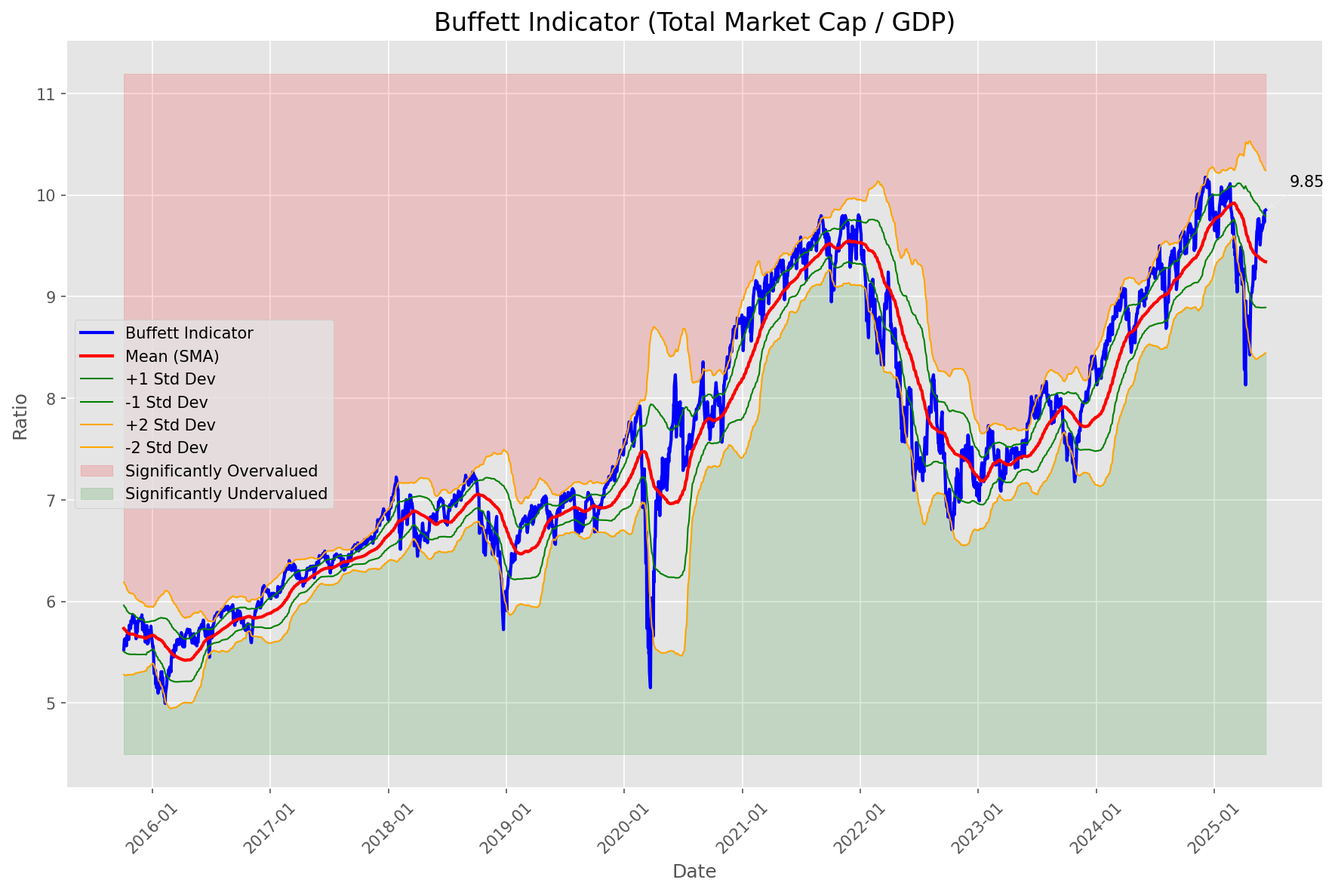
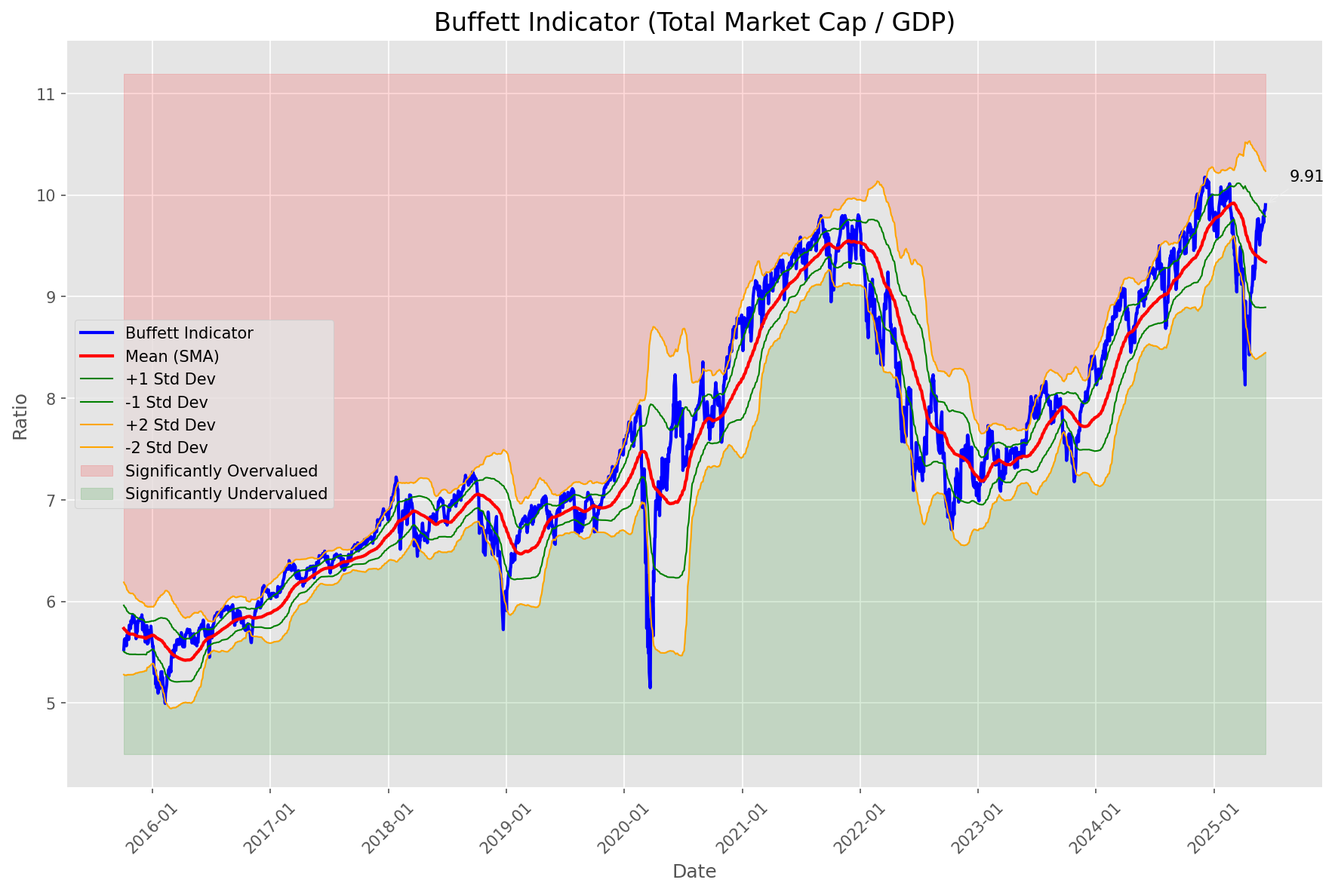
Add market report for 2025-06-11

Changed region(s): [[0.2798, 0.1826, 0.9638, 0.6695], [0.9638, 0.1826, 0.9949, 0.213], [0.8084, 0.9129, 0.8395, 0.9434]]

diff --git a/oneil_relative_strength_report_2025-06-11.md b/oneil_relative_strength_report_2025-06-11.md
@@ -9,11 +9,11 @@
 | Metric | Value |
 |--------|-------|
 | **Market Valuation** | **Overvalued** |
-| **Current Ratio** | 9.91 |
+| **Current Ratio** | 9.93 |
 | **Historical Mean** | 9.34 |
 | **Standard Deviation** | 0.45 |
-| **Z-Score (StdDev from Mean)** | 1.13 |
-| **Total Market Cap** | $296.92 trillion |
+| **Z-Score (StdDev from Mean)** | 1.26 |
+| **Total Market Cap** | $297.65 trillion |
 | **GDP** | $29.98 trillion |
 
 ## **Market Insights**
@@ -51,39 +51,39 @@ Based on William O'Neil's Relative Strength Methodology
 |-----|----------|-----------|-------------|--------------|-------|--------|
 | [ARKW](https://www.tradingview.com/chart/?symbol=ARKW) | 98.5 | 97.0 | 43.41% | 10d ✓, 50d ✓, 200d ✓ | ↗ | Next Generation Internet |
 | [ARKF](https://www.tradingview.com/chart/?symbol=ARKF) | 97.0 | 94.0 | 32.64% | 10d ✓, 50d ✓, 200d ✓ | ↗ | Fintech Innovation |
-| [ARKK](https://www.tradingview.com/chart/?symbol=ARKK) | 96.5 | 93.0 | 30.61% | 10d ✓, 50d ✓, 200d ✓ | ↗ | Innovation |
+| [ARKK](https://www.tradingview.com/chart/?symbol=ARKK) | 96.5 | 93.0 | 28.32% | 10d ✓, 50d ✓, 200d ✓ | ↗ | Innovation |
 | [BLOK](https://www.tradingview.com/chart/?symbol=BLOK) | 96.0 | 92.0 | 26.63% | 10d ✓, 50d ✓, 200d ✓ | ↗ | Blockchain & Cryptocurrency |
 | [AIQ](https://www.tradingview.com/chart/?symbol=AIQ) | 89.5 | 79.0 | 14.22% | 10d ✓, 50d ✓, 200d ✓ | ↗ | Artificial Intelligence & Technology |
-| [CIBR](https://www.tradingview.com/chart/?symbol=CIBR) | 88.5 | 77.0 | 13.67% | 10d ✓, 50d ✓, 200d ✓ | ↗ | Cybersecurity |
-| [PAVE](https://www.tradingview.com/chart/?symbol=PAVE) | 87.5 | 75.0 | 12.82% | 10d ✓, 50d ✓, 200d ✓ | ↗ | Infrastructure |
-| [SLV](https://www.tradingview.com/chart/?symbol=SLV) | 86.0 | 72.0 | 10.91% | 10d ✓, 50d ✓, 200d ✓ | ↗ | Silver |
-| [XLI](https://www.tradingview.com/chart/?symbol=XLI) | 85.5 | 71.0 | 10.80% | 10d ✓, 50d ✓, 200d ✓ | ↗ | Industrial |
-| [XLY](https://www.tradingview.com/chart/?symbol=XLY) | 85.0 | 70.0 | 10.20% | 10d ✓, 50d ✓, 200d ✓ | ↗ | Consumer Discretionary |
-| [JETS](https://www.tradingview.com/chart/?symbol=JETS) | 82.5 | 65.0 | 8.62% | 10d ✓, 50d ✓, 200d ✓ | ↗ | Airlines |
-| [XLC](https://www.tradingview.com/chart/?symbol=XLC) | 82.5 | 65.0 | 8.69% | 10d ✓, 50d ✓, 200d ✓ | ↗ | Communications |
-| [XLF](https://www.tradingview.com/chart/?symbol=XLF) | 80.5 | 61.0 | 7.25% | 10d ✓, 50d ✓, 200d ✓ | ↗ | Financial |
-| [IYZ](https://www.tradingview.com/chart/?symbol=IYZ) | 80.0 | 60.0 | 7.06% | 10d ✓, 50d ✓, 200d ✓ | ↗ | Telecommunications |
-| [GLD](https://www.tradingview.com/chart/?symbol=GLD) | 79.1 | 78.0 | 13.95% | 10d ✗, 50d ✓, 200d ✓ | ↗ | Gold |
-| [URA](https://www.tradingview.com/chart/?symbol=URA) | 78.5 | 97.0 | 43.91% | 10d ✓, 50d ✓, 200d ✓ | ↘ | Uranium |
-| [DBA](https://www.tradingview.com/chart/?symbol=DBA) | 72.5 | 45.0 | 1.65% | 10d ✓, 50d ✓, 200d ✓ | ↗ | Agriculture |
-| [SOXX](https://www.tradingview.com/chart/?symbol=SOXX) | 72.0 | 84.0 | 18.32% | 10d ✓, 50d ✓, 200d ✓ | ↘ | Semiconductors |
-| [XLK](https://www.tradingview.com/chart/?symbol=XLK) | 70.5 | 81.0 | 15.58% | 10d ✓, 50d ✓, 200d ✓ | ↘ | Technology |
-| [ICLN](https://www.tradingview.com/chart/?symbol=ICLN) | 68.5 | 77.0 | 13.39% | 10d ✓, 50d ✓, 200d ✓ | ↘ | Clean Energy |
-| [XLU](https://www.tradingview.com/chart/?symbol=XLU) | 67.1 | 54.0 | 4.46% | 10d ✗, 50d ✓, 200d ✓ | ↗ | Utilities |
-| [KWEB](https://www.tradingview.com/chart/?symbol=KWEB) | 62.0 | 24.0 | -3.65% | 10d ✓, 50d ✓, 200d ✓ | ↗ | Chinese Internet |
-| [ARKG](https://www.tradingview.com/chart/?symbol=ARKG) | 61.0 | 62.0 | 7.88% | 10d ✓, 50d ✓, 200d ✓ | ↘ | Genomics |
-| [XLP](https://www.tradingview.com/chart/?symbol=XLP) | 60.1 | 40.0 | 0.36% | 10d ✗, 50d ✓, 200d ✓ | ↗ | Consumer Staples |
-| [IYT](https://www.tradingview.com/chart/?symbol=IYT) | 47.3 | 55.0 | 4.88% | 10d ✓, 50d ✓, 200d ✗ | ↘ | Transportation |
-| [XLB](https://www.tradingview.com/chart/?symbol=XLB) | 46.3 | 53.0 | 4.21% | 10d ✓, 50d ✓, 200d ✗ | ↘ | Materials |
-| [IYR](https://www.tradingview.com/chart/?symbol=IYR) | 41.3 | 43.0 | 1.07% | 10d ✓, 50d ✓, 200d ✗ | ↘ | Real Estate |
+| [CIBR](https://www.tradingview.com/chart/?symbol=CIBR) | 89.0 | 78.0 | 13.67% | 10d ✓, 50d ✓, 200d ✓ | ↗ | Cybersecurity |
+| [PAVE](https://www.tradingview.com/chart/?symbol=PAVE) | 87.0 | 74.0 | 12.23% | 10d ✓, 50d ✓, 200d ✓ | ↗ | Infrastructure |
+| [XLI](https://www.tradingview.com/chart/?symbol=XLI) | 86.0 | 72.0 | 10.67% | 10d ✓, 50d ✓, 200d ✓ | ↗ | Industrial |
+| [JETS](https://www.tradingview.com/chart/?symbol=JETS) | 85.5 | 71.0 | 10.12% | 10d ✓, 50d ✓, 200d ✓ | ↗ | Airlines |
+| [XLY](https://www.tradingview.com/chart/?symbol=XLY) | 85.0 | 70.0 | 9.79% | 10d ✓, 50d ✓, 200d ✓ | ↗ | Consumer Discretionary |
+| [SLV](https://www.tradingview.com/chart/?symbol=SLV) | 83.5 | 67.0 | 8.97% | 10d ✓, 50d ✓, 200d ✓ | ↗ | Silver |
+| [XLC](https://www.tradingview.com/chart/?symbol=XLC) | 82.5 | 65.0 | 8.38% | 10d ✓, 50d ✓, 200d ✓ | ↗ | Communications |
+| [XLF](https://www.tradingview.com/chart/?symbol=XLF) | 80.5 | 61.0 | 7.31% | 10d ✓, 50d ✓, 200d ✓ | ↗ | Financial |
+| [IYZ](https://www.tradingview.com/chart/?symbol=IYZ) | 80.5 | 61.0 | 7.06% | 10d ✓, 50d ✓, 200d ✓ | ↗ | Telecommunications |
+| [URA](https://www.tradingview.com/chart/?symbol=URA) | 79.0 | 98.0 | 49.87% | 10d ✓, 50d ✓, 200d ✓ | ↘ | Uranium |
+| [GLD](https://www.tradingview.com/chart/?symbol=GLD) | 78.6 | 77.0 | 13.59% | 10d ✗, 50d ✓, 200d ✓ | ↗ | Gold |
+| [DBA](https://www.tradingview.com/chart/?symbol=DBA) | 72.0 | 44.0 | 1.65% | 10d ✓, 50d ✓, 200d ✓ | ↗ | Agriculture |
+| [SOXX](https://www.tradingview.com/chart/?symbol=SOXX) | 71.5 | 83.0 | 16.47% | 10d ✓, 50d ✓, 200d ✓ | ↘ | Semiconductors |
+| [ICLN](https://www.tradingview.com/chart/?symbol=ICLN) | 70.5 | 81.0 | 15.36% | 10d ✓, 50d ✓, 200d ✓ | ↘ | Clean Energy |
+| [XLK](https://www.tradingview.com/chart/?symbol=XLK) | 69.5 | 79.0 | 14.11% | 10d ✓, 50d ✓, 200d ✓ | ↘ | Technology |
+| [XLU](https://www.tradingview.com/chart/?symbol=XLU) | 67.6 | 55.0 | 4.92% | 10d ✗, 50d ✓, 200d ✓ | ↗ | Utilities |
+| [KWEB](https://www.tradingview.com/chart/?symbol=KWEB) | 64.5 | 29.0 | -1.92% | 10d ✓, 50d ✓, 200d ✓ | ↗ | Chinese Internet |
+| [XLP](https://www.tradingview.com/chart/?symbol=XLP) | 63.1 | 46.0 | 2.32% | 10d ✗, 50d ✓, 200d ✓ | ↗ | Consumer Staples |
+| [ARKG](https://www.tradingview.com/chart/?symbol=ARKG) | 59.0 | 58.0 | 6.09% | 10d ✓, 50d ✓, 200d ✓ | ↘ | Genomics |
+| [IYT](https://www.tradingview.com/chart/?symbol=IYT) | 46.8 | 54.0 | 4.88% | 10d ✓, 50d ✓, 200d ✗ | ↘ | Transportation |
+| [XLB](https://www.tradingview.com/chart/?symbol=XLB) | 45.3 | 51.0 | 3.92% | 10d ✓, 50d ✓, 200d ✗ | ↘ | Materials |
+| [IYR](https://www.tradingview.com/chart/?symbol=IYR) | 41.8 | 44.0 | 1.71% | 10d ✓, 50d ✓, 200d ✗ | ↘ | Real Estate |
 | [DBC](https://www.tradingview.com/chart/?symbol=DBC) | 35.3 | 31.0 | -1.41% | 10d ✓, 50d ✓, 200d ✗ | ↘ | Commodities |
-| [XLE](https://www.tradingview.com/chart/?symbol=XLE) | 32.8 | 26.0 | -2.66% | 10d ✓, 50d ✓, 200d ✗ | ↘ | Energy |
-| [ITB](https://www.tradingview.com/chart/?symbol=ITB) | 32.3 | 25.0 | -3.35% | 10d ✓, 50d ✓, 200d ✗ | ↘ | Home Construction |
-| [IBB](https://www.tradingview.com/chart/?symbol=IBB) | 31.8 | 24.0 | -3.88% | 10d ✓, 50d ✓, 200d ✗ | ↘ | Biotechnology |
-| [XLV](https://www.tradingview.com/chart/?symbol=XLV) | 27.8 | 16.0 | -7.11% | 10d ✓, 50d ✓, 200d ✗ | ↘ | Healthcare |
-| [TLT](https://www.tradingview.com/chart/?symbol=TLT) | 20.4 | 21.0 | -5.00% | 10d ✓, 50d ✗, 200d ✗ | ↘ | Long-term Treasuries |
-| [BIL](https://www.tradingview.com/chart/?symbol=BIL) | 19.0 | 38.0 | 0.00% | 10d ✗, 50d ✗, 200d ✗ | ↘ | Short-term Treasuries |
-| [UUP](https://www.tradingview.com/chart/?symbol=UUP) | 12.5 | 25.0 | -3.01% | 10d ✗, 50d ✗, 200d ✗ | ↘ | U.S. Dollar |
+| [ITB](https://www.tradingview.com/chart/?symbol=ITB) | 33.3 | 27.0 | -2.50% | 10d ✓, 50d ✓, 200d ✗ | ↘ | Home Construction |
+| [XLE](https://www.tradingview.com/chart/?symbol=XLE) | 32.3 | 25.0 | -3.16% | 10d ✓, 50d ✓, 200d ✗ | ↘ | Energy |
+| [IBB](https://www.tradingview.com/chart/?symbol=IBB) | 31.8 | 24.0 | -3.72% | 10d ✓, 50d ✓, 200d ✗ | ↘ | Biotechnology |
+| [XLV](https://www.tradingview.com/chart/?symbol=XLV) | 28.8 | 18.0 | -5.78% | 10d ✓, 50d ✓, 200d ✗ | ↘ | Healthcare |
+| [BIL](https://www.tradingview.com/chart/?symbol=BIL) | 28.4 | 37.0 | -0.01% | 10d ✓, 50d ✗, 200d ✗ | ↘ | Short-term Treasuries |
+| [TLT](https://www.tradingview.com/chart/?symbol=TLT) | 20.9 | 22.0 | -4.57% | 10d ✓, 50d ✗, 200d ✗ | ↘ | Long-term Treasuries |
+| [UUP](https://www.tradingview.com/chart/?symbol=UUP) | 12.0 | 24.0 | -3.48% | 10d ✗, 50d ✗, 200d ✗ | ↘ | U.S. Dollar |
 
 ### **Sector ETF Performance Interpretation**
 
@@ -106,185 +106,194 @@ The **Next Generation Internet** sector (represented by **ARKW**) is showing par
 
 ## **Buy Recommendations**
 
-The following 54 stocks show exceptional relative strength:
+The following 51 stocks show exceptional relative strength:
 
 | RS Rating | Buy Score | Current Price | Chart | Name | Ticker |
 |-----------|-----------|---------------|-------|------|--------|
-| 100 | 100 | $72.51 | [Chart](https://www.tradingview.com/chart/?symbol=HOOD) | Robinhood Markets, Inc. Class A Common Stock | HOOD |
-| 100 | 100 | $145.92 | [Chart](https://www.tradingview.com/chart/?symbol=LEU) | Centrus Energy Corp. | LEU |
-| 100 | 100 | $132.81 | [Chart](https://www.tradingview.com/chart/?symbol=PLTR) | Palantir Technologies Inc. Class A Common Stock | PLTR |
-| 100 | 100 | $93.72 | [Chart](https://www.tradingview.com/chart/?symbol=RBLX) | Roblox Corporation | RBLX |
-| 100 | 100 | $122.83 | [Chart](https://www.tradingview.com/chart/?symbol=SEZL) | Sezzle Inc. Common Stock | SEZL |
-| 100 | 100 | $338.50 | [Chart](https://www.tradingview.com/chart/?symbol=CVNA) | Carvana Co. | CVNA |
 | 100 | 100 | $224.58 | [Chart](https://www.tradingview.com/chart/?symbol=DAVE) | Dave Inc. Class A Common Stock | DAVE |
-| 99 | 100 | $42.60 | [Chart](https://www.tradingview.com/chart/?symbol=FARO) | Faro Technologies Inc | FARO |
-| 99 | 100 | $55.25 | [Chart](https://www.tradingview.com/chart/?symbol=HIMS) | Hims & Hers Health, Inc. | HIMS |
+| 100 | 100 | $73.16 | [Chart](https://www.tradingview.com/chart/?symbol=HOOD) | Robinhood Markets, Inc. Class A Common Stock | HOOD |
+| 100 | 100 | $129.10 | [Chart](https://www.tradingview.com/chart/?symbol=SEZL) | Sezzle Inc. Common Stock | SEZL |
+| 100 | 100 | $161.31 | [Chart](https://www.tradingview.com/chart/?symbol=LEU) | Centrus Energy Corp. | LEU |
+| 100 | 100 | $55.16 | [Chart](https://www.tradingview.com/chart/?symbol=HIMS) | Hims & Hers Health, Inc. | HIMS |
+| 100 | 100 | $95.86 | [Chart](https://www.tradingview.com/chart/?symbol=RBLX) | Roblox Corporation | RBLX |
+| 100 | 100 | $335.76 | [Chart](https://www.tradingview.com/chart/?symbol=CVNA) | Carvana Co. | CVNA |
+| 99 | 100 | $135.04 | [Chart](https://www.tradingview.com/chart/?symbol=PLTR) | Palantir Technologies Inc. Class A Common Stock | PLTR |
 | 98 | 100 | $44.90 | [Chart](https://www.tradingview.com/chart/?symbol=REVG) | REV Group, Inc. | REVG |
 | 98 | 100 | $251.74 | [Chart](https://www.tradingview.com/chart/?symbol=GWRE) | GUIDEWIRE SOFTWARE, INC. | GWRE |
-| 98 | 100 | $179.34 | [Chart](https://www.tradingview.com/chart/?symbol=NET) | Cloudflare, Inc. Class A common stock, par value $0.001 per share | NET |
-| 97 | 100 | $37.84 | [Chart](https://www.tradingview.com/chart/?symbol=AS) | Amer Sports, Inc. | AS |
-| 97 | 100 | $255.09 | [Chart](https://www.tradingview.com/chart/?symbol=TLN) | Talen Energy Corporation Common Stock | TLN |
-| 96 | 100 | $121.51 | [Chart](https://www.tradingview.com/chart/?symbol=CLS) | Celestica, Inc. | CLS |
-| 96 | 100 | $21.19 | [Chart](https://www.tradingview.com/chart/?symbol=MAG) | MAG Silver Corp. | MAG |
-| 96 | 100 | $19.75 | [Chart](https://www.tradingview.com/chart/?symbol=MIR) | Mirion Technologies, Inc. | MIR |
+| 98 | 100 | $42.59 | [Chart](https://www.tradingview.com/chart/?symbol=FARO) | Faro Technologies Inc | FARO |
+| 97 | 100 | $126.00 | [Chart](https://www.tradingview.com/chart/?symbol=CLS) | Celestica, Inc. | CLS |
+| 97 | 100 | $38.27 | [Chart](https://www.tradingview.com/chart/?symbol=AS) | Amer Sports, Inc. | AS |
+| 96 | 100 | $138.72 | [Chart](https://www.tradingview.com/chart/?symbol=COOP) | Mr. Cooper Group Inc. Common Stock | COOP |
+| 96 | 100 | $20.00 | [Chart](https://www.tradingview.com/chart/?symbol=MIR) | Mirion Technologies, Inc. | MIR |
+| 96 | 100 | $274.63 | [Chart](https://www.tradingview.com/chart/?symbol=TLN) | Talen Energy Corporation Common Stock | TLN |
+| 95 | 100 | $21.19 | [Chart](https://www.tradingview.com/chart/?symbol=MAG) | MAG Silver Corp. | MAG |
 | 95 | 100 | $67.37 | [Chart](https://www.tradingview.com/chart/?symbol=RYTM) | Rhythm Pharmaceuticals, Inc. Common Stock | RYTM |
-| 95 | 100 | $135.45 | [Chart](https://www.tradingview.com/chart/?symbol=COOP) | Mr. Cooper Group Inc. Common Stock | COOP |
-| 95 | 100 | $39.30 | [Chart](https://www.tradingview.com/chart/?symbol=KTOS) | Kratos Defense & Security Solutions, Inc. | KTOS |
 | 95 | 100 | $48.26 | [Chart](https://www.tradingview.com/chart/?symbol=BBW) | Build-A-Bear Workshop, Inc. | BBW |
+| 94 | 100 | $62.55 | [Chart](https://www.tradingview.com/chart/?symbol=IBIT) | iShares Bitcoin Trust ETF | IBIT |
 | 94 | 100 | $44.50 | [Chart](https://www.tradingview.com/chart/?symbol=ARKF) | ARK Fintech Innovation ETF | ARKF |
-| 94 | 100 | $31.00 | [Chart](https://www.tradingview.com/chart/?symbol=HODL) | VanEck Bitcoin ETF | HODL |
-| 94 | 100 | $68.51 | [Chart](https://www.tradingview.com/chart/?symbol=GDXJ) | VanEck Junior Gold Miners ETF | GDXJ |
-| 94 | 100 | $62.29 | [Chart](https://www.tradingview.com/chart/?symbol=IBIT) | iShares Bitcoin Trust ETF | IBIT |
+| 94 | 100 | $31.13 | [Chart](https://www.tradingview.com/chart/?symbol=HODL) | VanEck Bitcoin ETF | HODL |
 | 94 | 100 | $23.83 | [Chart](https://www.tradingview.com/chart/?symbol=TFPM) | Triple Flag Precious Metals Corp. | TFPM |
-| 93 | 100 | $47.86 | [Chart](https://www.tradingview.com/chart/?symbol=SIL) | Global X Silver Miners ETF (NEW) | SIL |
+| 93 | 100 | $68.86 | [Chart](https://www.tradingview.com/chart/?symbol=GDXJ) | VanEck Junior Gold Miners ETF | GDXJ |
 | 93 | 100 | $490.20 | [Chart](https://www.tradingview.com/chart/?symbol=CASY) | Casey's General Stores Inc | CASY |
-| 93 | 100 | $43.35 | [Chart](https://www.tradingview.com/chart/?symbol=TOST) | Toast, Inc. | TOST |
-| 93 | 100 | $30.47 | [Chart](https://www.tradingview.com/chart/?symbol=NTGR) | NETGEAR, Inc. | NTGR |
-| 91 | 100 | $26.31 | [Chart](https://www.tradingview.com/chart/?symbol=CPRX) | Catalyst Pharmaceutical  Inc. | CPRX |
-| 91 | 100 | $131.34 | [Chart](https://www.tradingview.com/chart/?symbol=NTES) | NetEase, inc. | NTES |
-| 90 | 100 | $54.52 | [Chart](https://www.tradingview.com/chart/?symbol=AKRO) | Akero Therapeutics, Inc. Common Stock | AKRO |
-| 89 | 100 | $35.25 | [Chart](https://www.tradingview.com/chart/?symbol=AHR) | American Healthcare REIT, Inc. | AHR |
-| 88 | 100 | $57.33 | [Chart](https://www.tradingview.com/chart/?symbol=CAKE) | Cheesecake Factory (The) | CAKE |
-| 86 | 100 | $24.23 | [Chart](https://www.tradingview.com/chart/?symbol=SRAD) | Sportradar Group AG Class A Ordinary Shares | SRAD |
-| 89 | 99 | $187.16 | [Chart](https://www.tradingview.com/chart/?symbol=CVLT) | Commault Systems, Inc. | CVLT |
-| 88 | 99 | $284.13 | [Chart](https://www.tradingview.com/chart/?symbol=VEEV) | Veeva Systems Inc. | VEEV |
-| 88 | 99 | $201.00 | [Chart](https://www.tradingview.com/chart/?symbol=COF) | Capital One Financial | COF |
-| 87 | 99 | $27.91 | [Chart](https://www.tradingview.com/chart/?symbol=DB) | Deutsche Bank Aktiengesellschaft | DB |
-| 87 | 99 | $78.77 | [Chart](https://www.tradingview.com/chart/?symbol=EBAY) | eBay Inc | EBAY |
-| 87 | 98 | $179.13 | [Chart](https://www.tradingview.com/chart/?symbol=ITA) | iShares U.S. Aerospace & Defense ETF | ITA |
+| 92 | 100 | $132.55 | [Chart](https://www.tradingview.com/chart/?symbol=NTES) | NetEase, inc. | NTES |
+| 92 | 100 | $30.80 | [Chart](https://www.tradingview.com/chart/?symbol=NTGR) | NETGEAR, Inc. | NTGR |
+| 91 | 100 | $35.85 | [Chart](https://www.tradingview.com/chart/?symbol=AHR) | American Healthcare REIT, Inc. | AHR |
+| 90 | 100 | $26.11 | [Chart](https://www.tradingview.com/chart/?symbol=CPRX) | Catalyst Pharmaceutical  Inc. | CPRX |
+| 90 | 100 | $187.16 | [Chart](https://www.tradingview.com/chart/?symbol=CVLT) | Commault Systems, Inc. | CVLT |
+| 89 | 100 | $284.52 | [Chart](https://www.tradingview.com/chart/?symbol=VEEV) | Veeva Systems Inc. | VEEV |
+| 88 | 100 | $57.89 | [Chart](https://www.tradingview.com/chart/?symbol=CAKE) | Cheesecake Factory (The) | CAKE |
+| 88 | 100 | $24.74 | [Chart](https://www.tradingview.com/chart/?symbol=SRAD) | Sportradar Group AG Class A Ordinary Shares | SRAD |
+| 88 | 100 | $28.36 | [Chart](https://www.tradingview.com/chart/?symbol=DB) | Deutsche Bank Aktiengesellschaft | DB |
+| 86 | 100 | $180.91 | [Chart](https://www.tradingview.com/chart/?symbol=PM) | Philip Morris International Inc. | PM |
+| 90 | 99 | $47.79 | [Chart](https://www.tradingview.com/chart/?symbol=SIL) | Global X Silver Miners ETF (NEW) | SIL |
+| 87 | 99 | $78.23 | [Chart](https://www.tradingview.com/chart/?symbol=EBAY) | eBay Inc | EBAY |
+| 86 | 99 | $174.35 | [Chart](https://www.tradingview.com/chart/?symbol=EAT) | Brinker International, Inc. | EAT |
+| 87 | 98 | $216.90 | [Chart](https://www.tradingview.com/chart/?symbol=BAP) | Credicorp LTD | BAP |
 | 86 | 98 | $396.07 | [Chart](https://www.tradingview.com/chart/?symbol=CYBR) | CyberArk Software Ltd. | CYBR |
-| 86 | 97 | $216.90 | [Chart](https://www.tradingview.com/chart/?symbol=BAP) | Credicorp LTD | BAP |
-| 84 | 96 | $143.71 | [Chart](https://www.tradingview.com/chart/?symbol=LYV) | Live Nation Entertainment Inc. | LYV |
-| 85 | 95 | $110.26 | [Chart](https://www.tradingview.com/chart/?symbol=SHOP) | Shopify Inc. Class A subordinate voting shares | SHOP |
-| 85 | 95 | $86.07 | [Chart](https://www.tradingview.com/chart/?symbol=NDAQ) | Nasdaq, Inc. Common Stock | NDAQ |
-| 84 | 94 | $165.22 | [Chart](https://www.tradingview.com/chart/?symbol=NTRA) | Natera, Inc. Common Stock | NTRA |
-| 83 | 94 | $43.50 | [Chart](https://www.tradingview.com/chart/?symbol=EWP) | iShares MSCI Spain ETF | EWP |
-| 80 | 94 | $234.91 | [Chart](https://www.tradingview.com/chart/?symbol=TTWO) | Take-Two Interactive Software Inc | TTWO |
-| 84 | 93 | $24.22 | [Chart](https://www.tradingview.com/chart/?symbol=GFI) | Gold Fields Ltd ADR | GFI |
-| 81 | 93 | $47.50 | [Chart](https://www.tradingview.com/chart/?symbol=BTI) | British American Tobacco p.l.c. American Depositary Shares, American Depositary Shares, each representing one Ordinary Share | BTI |
-| 83 | 92 | $50.09 | [Chart](https://www.tradingview.com/chart/?symbol=GH) | Guardant Health, Inc. Common Stock | GH |
+| 85 | 97 | $143.71 | [Chart](https://www.tradingview.com/chart/?symbol=LYV) | Live Nation Entertainment Inc. | LYV |
+| 85 | 95 | $114.42 | [Chart](https://www.tradingview.com/chart/?symbol=SHOP) | Shopify Inc. Class A subordinate voting shares | SHOP |
+| 85 | 95 | $86.68 | [Chart](https://www.tradingview.com/chart/?symbol=NDAQ) | Nasdaq, Inc. Common Stock | NDAQ |
+| 84 | 95 | $43.50 | [Chart](https://www.tradingview.com/chart/?symbol=EWP) | iShares MSCI Spain ETF | EWP |
+| 83 | 95 | $48.35 | [Chart](https://www.tradingview.com/chart/?symbol=BTI) | British American Tobacco p.l.c. American Depositary Shares, American Depositary Shares, each representing one Ordinary Share | BTI |
+| 80 | 94 | $235.27 | [Chart](https://www.tradingview.com/chart/?symbol=TTWO) | Take-Two Interactive Software Inc | TTWO |
+| 80 | 92 | $40.79 | [Chart](https://www.tradingview.com/chart/?symbol=ZLAB) | Zai Lab Limited American Depositary Shares | ZLAB |
 | 80 | 92 | $75.98 | [Chart](https://www.tradingview.com/chart/?symbol=LLYVK) | Liberty Media Corporation Series C Liberty Live Common Stock | LLYVK |
+| 80 | 90 | $23.77 | [Chart](https://www.tradingview.com/chart/?symbol=KAR) | OPENLANE, Inc | KAR |
+| 80 | 90 | $165.68 | [Chart](https://www.tradingview.com/chart/?symbol=NTRA) | Natera, Inc. Common Stock | NTRA |
+| 80 | 89 | $49.55 | [Chart](https://www.tradingview.com/chart/?symbol=GH) | Guardant Health, Inc. Common Stock | GH |
 
 ---
 
 
 ## **Sell Recommendations**
 
-The following 111 stocks show deteriorating relative strength:
+The following 123 stocks show deteriorating relative strength:
 
 | RS Rating | Sell Score | Current Price | Chart | Name | Ticker |
 |-----------|------------|---------------|-------|------|--------|
-| 1 | 100 | $31.36 | [Chart](https://www.tradingview.com/chart/?symbol=TECS) | Direxion Daily Technology Bear 3x Shares | TECS |
+| 1 | 100 | $10.34 | [Chart](https://www.tradingview.com/chart/?symbol=WNC) | Wabash National Corp. | WNC |
+| 1 | 100 | $16.64 | [Chart](https://www.tradingview.com/chart/?symbol=NVDS) | Investment Managers Series Trust II Tradr 1.5X Short NVDA Daily ETF | NVDS |
+| 1 | 100 | $31.11 | [Chart](https://www.tradingview.com/chart/?symbol=TECS) | Direxion Daily Technology Bear 3x Shares | TECS |
+| 1 | 100 | $13.84 | [Chart](https://www.tradingview.com/chart/?symbol=IART) | Integra LifeSciences Holdings | IART |
 | 1 | 100 | $15.69 | [Chart](https://www.tradingview.com/chart/?symbol=RXST) | RxSight, Inc. Common Stock | RXST |
 | 1 | 100 | $16.79 | [Chart](https://www.tradingview.com/chart/?symbol=BHVN) | Biohaven Ltd. | BHVN |
-| 1 | 100 | $16.68 | [Chart](https://www.tradingview.com/chart/?symbol=NVDS) | Investment Managers Series Trust II Tradr 1.5X Short NVDA Daily ETF | NVDS |
-| 1 | 100 | $13.98 | [Chart](https://www.tradingview.com/chart/?symbol=IART) | Integra LifeSciences Holdings | IART |
 | 1 | 100 | $12.19 | [Chart](https://www.tradingview.com/chart/?symbol=ZVZZT) | SUPER Montage TEST SYMBOL | ZVZZT |
-| 2 | 100 | $10.34 | [Chart](https://www.tradingview.com/chart/?symbol=WNC) | Wabash National Corp. | WNC |
+| 2 | 100 | $27.13 | [Chart](https://www.tradingview.com/chart/?symbol=QID) | ProShares UltraShort QQQ | QID |
+| 2 | 100 | $12.09 | [Chart](https://www.tradingview.com/chart/?symbol=TZA) | Direxion Daily Small Cap Bear 3x Shares | TZA |
 | 2 | 100 | $22.28 | [Chart](https://www.tradingview.com/chart/?symbol=THS) | Treehouse Foods, Inc. | THS |
-| 2 | 100 | $12.25 | [Chart](https://www.tradingview.com/chart/?symbol=TZA) | Direxion Daily Small Cap Bear 3x Shares | TZA |
-| 2 | 100 | $27.24 | [Chart](https://www.tradingview.com/chart/?symbol=QID) | ProShares UltraShort QQQ | QID |
 | 2 | 100 | $11.24 | [Chart](https://www.tradingview.com/chart/?symbol=SNDX) | Syndax Pharmaceuticals, Inc. | SNDX |
-| 3 | 100 | $14.56 | [Chart](https://www.tradingview.com/chart/?symbol=INMD) | InMode Ltd. Ordinary Shares | INMD |
 | 3 | 100 | $54.96 | [Chart](https://www.tradingview.com/chart/?symbol=ASGN) | ASGN Incorporated | ASGN |
-| 3 | 100 | $11.26 | [Chart](https://www.tradingview.com/chart/?symbol=HPK) | HighPeak Energy, Inc. Common Stock | HPK |
 | 3 | 100 | $138.21 | [Chart](https://www.tradingview.com/chart/?symbol=KRYS) | Krystal Biotech, Inc. Common Stock | KRYS |
+| 3 | 100 | $10.48 | [Chart](https://www.tradingview.com/chart/?symbol=SONO) | Sonos, Inc. Common Stock | SONO |
 | 3 | 100 | $25.96 | [Chart](https://www.tradingview.com/chart/?symbol=CRTO) | Criteo S.A. | CRTO |
-| 3 | 100 | $10.51 | [Chart](https://www.tradingview.com/chart/?symbol=SONO) | Sonos, Inc. Common Stock | SONO |
+| 3 | 100 | $11.26 | [Chart](https://www.tradingview.com/chart/?symbol=HPK) | HighPeak Energy, Inc. Common Stock | HPK |
+| 3 | 100 | $102.80 | [Chart](https://www.tradingview.com/chart/?symbol=GLOB) | GLOBANT S.A. | GLOB |
+| 3 | 100 | $33.94 | [Chart](https://www.tradingview.com/chart/?symbol=CYTK) | Cytokinetics Inc. | CYTK |
+| 3 | 100 | $11.37 | [Chart](https://www.tradingview.com/chart/?symbol=WEN) | The Wendy's Company | WEN |
 | 3 | 100 | $12.82 | [Chart](https://www.tradingview.com/chart/?symbol=ERII) | Energy Recovery, Inc. | ERII |
 | 4 | 100 | $136.73 | [Chart](https://www.tradingview.com/chart/?symbol=INSP) | Inspire Medical Systems, Inc. | INSP |
-| 4 | 100 | $10.75 | [Chart](https://www.tradingview.com/chart/?symbol=CWK) | Cushman & Wakefield plc Ordinary Shares | CWK |
-| 4 | 100 | $111.78 | [Chart](https://www.tradingview.com/chart/?symbol=AMR) | Alpha Metallurgical Resources, Inc. | AMR |
-| 4 | 100 | $11.62 | [Chart](https://www.tradingview.com/chart/?symbol=PUBM) | PubMatic, Inc. Class A Common Stock | PUBM |
 | 4 | 100 | $55.85 | [Chart](https://www.tradingview.com/chart/?symbol=CCS) | CENTURY COMMUNITIES, INC. | CCS |
 | 4 | 100 | $21.51 | [Chart](https://www.tradingview.com/chart/?symbol=AMRK) | A-Mark Precious Metals, Inc. | AMRK |
-| 4 | 100 | $10.69 | [Chart](https://www.tradingview.com/chart/?symbol=PACS) | PACS Group, Inc. | PACS |
+| 4 | 100 | $11.62 | [Chart](https://www.tradingview.com/chart/?symbol=PUBM) | PubMatic, Inc. Class A Common Stock | PUBM |
+| 4 | 100 | $111.78 | [Chart](https://www.tradingview.com/chart/?symbol=AMR) | Alpha Metallurgical Resources, Inc. | AMR |
 | 4 | 100 | $53.03 | [Chart](https://www.tradingview.com/chart/?symbol=SLVM) | Sylvamo Corporation | SLVM |
-| 4 | 100 | $34.54 | [Chart](https://www.tradingview.com/chart/?symbol=CYTK) | Cytokinetics Inc. | CYTK |
+| 4 | 100 | $10.69 | [Chart](https://www.tradingview.com/chart/?symbol=PACS) | PACS Group, Inc. | PACS |
 | 4 | 100 | $45.42 | [Chart](https://www.tradingview.com/chart/?symbol=LINE) | Lineage, Inc. Common Stock | LINE |
 | 5 | 100 | $101.34 | [Chart](https://www.tradingview.com/chart/?symbol=ONTO) | Onto Innovation Inc. | ONTO |
+| 5 | 100 | $44.35 | [Chart](https://www.tradingview.com/chart/?symbol=TWM) | ProShares UltraShort Russell2000 | TWM |
+| 5 | 100 | $14.63 | [Chart](https://www.tradingview.com/chart/?symbol=INMD) | InMode Ltd. Ordinary Shares | INMD |
 | 5 | 100 | $18.75 | [Chart](https://www.tradingview.com/chart/?symbol=DNTH) | Dianthus Therapeutics, Inc. Common Stock | DNTH |
+| 5 | 100 | $45.18 | [Chart](https://www.tradingview.com/chart/?symbol=SDOW) | ProShares UltraPro Short Dow 30 | SDOW |
+| 5 | 100 | $417.76 | [Chart](https://www.tradingview.com/chart/?symbol=TMO) | Thermo Fisher Scientific, Inc. | TMO |
 | 5 | 100 | $32.95 | [Chart](https://www.tradingview.com/chart/?symbol=MBIN) | Merchants Bancorp Common Stock | MBIN |
-| 5 | 100 | $22.48 | [Chart](https://www.tradingview.com/chart/?symbol=GPK) | Graphic Packaging Holding Company | GPK |
-| 6 | 100 | $17.25 | [Chart](https://www.tradingview.com/chart/?symbol=CODI) | Compass Diversified | CODI |
-| 6 | 100 | $44.35 | [Chart](https://www.tradingview.com/chart/?symbol=TWM) | ProShares UltraShort Russell2000 | TWM |
-| 6 | 100 | $45.32 | [Chart](https://www.tradingview.com/chart/?symbol=SDOW) | ProShares UltraPro Short Dow 30 | SDOW |
 | 6 | 100 | $71.42 | [Chart](https://www.tradingview.com/chart/?symbol=WD) | Walker & Dunlop, Inc. | WD |
-| 8 | 100 | $23.77 | [Chart](https://www.tradingview.com/chart/?symbol=IPG) | The Interpublic Group of Companies, Inc. | IPG |
+| 6 | 100 | $17.25 | [Chart](https://www.tradingview.com/chart/?symbol=CODI) | Compass Diversified | CODI |
+| 6 | 100 | $39.35 | [Chart](https://www.tradingview.com/chart/?symbol=WLY) | John Wiley & Sons, Inc. Class A | WLY |
+| 6 | 100 | $34.43 | [Chart](https://www.tradingview.com/chart/?symbol=SQM) | Sociedad Quimica y Minera de Chile SA | SQM |
+| 7 | 100 | $22.26 | [Chart](https://www.tradingview.com/chart/?symbol=GPK) | Graphic Packaging Holding Company | GPK |
+| 7 | 100 | $36.63 | [Chart](https://www.tradingview.com/chart/?symbol=TMF) | Direxion Daily 20+ Year Treasury Bull 3X Shares (based on the NYSE 20 Year Plus Treasury Bond Index; symbol AXTWEN) | TMF |
+| 8 | 100 | $103.08 | [Chart](https://www.tradingview.com/chart/?symbol=PDD) | PDD Holdings Inc. American Depositary Shares | PDD |
+| 8 | 100 | $17.63 | [Chart](https://www.tradingview.com/chart/?symbol=DOC) | Healthpeak Properties, Inc. | DOC |
 | 8 | 100 | $41.02 | [Chart](https://www.tradingview.com/chart/?symbol=APOG) | Apogee Enterprises Inc | APOG |
-| 9 | 100 | $54.50 | [Chart](https://www.tradingview.com/chart/?symbol=GIS) | General Mills, Inc. | GIS |
+| 8 | 100 | $10.01 | [Chart](https://www.tradingview.com/chart/?symbol=LBTYA) | Liberty Global Ltd. Class A Common Shares | LBTYA |
+| 10 | 100 | $64.65 | [Chart](https://www.tradingview.com/chart/?symbol=ZROZ) | PIMCO 25+ Year Zero Coupon U.S. Treasury Index Exchange-Traded Fund | ZROZ |
 | 10 | 100 | $12.56 | [Chart](https://www.tradingview.com/chart/?symbol=WSR) | Whitestone REIT | WSR |
 | 10 | 100 | $22.17 | [Chart](https://www.tradingview.com/chart/?symbol=KIDS) | OrthoPediatrics Corp. Common Stock | KIDS |
+| 11 | 100 | $15.08 | [Chart](https://www.tradingview.com/chart/?symbol=IGT) | International Game Technology PLC | IGT |
+| 11 | 100 | $26.24 | [Chart](https://www.tradingview.com/chart/?symbol=JANX) | Janux Therapeutics, Inc. Common Stock | JANX |
+| 11 | 100 | $10.22 | [Chart](https://www.tradingview.com/chart/?symbol=LBTYK) | Liberty Global Ltd. Class C Common Shares | LBTYK |
+| 12 | 100 | $10.70 | [Chart](https://www.tradingview.com/chart/?symbol=CARS) | Cars.com Inc. Common Stock | CARS |
 | 12 | 100 | $125.44 | [Chart](https://www.tradingview.com/chart/?symbol=TFX) | Teleflex Incorporated | TFX |
-| 12 | 100 | $10.22 | [Chart](https://www.tradingview.com/chart/?symbol=LBTYK) | Liberty Global Ltd. Class C Common Shares | LBTYK |
-| 13 | 100 | $15.41 | [Chart](https://www.tradingview.com/chart/?symbol=SEM) | SELECT MEDICAL HOLDINGS CORP | SEM |
+| 13 | 100 | $54.57 | [Chart](https://www.tradingview.com/chart/?symbol=GIS) | General Mills, Inc. | GIS |
 | 15 | 100 | $90.23 | [Chart](https://www.tradingview.com/chart/?symbol=BCC) | Boise Cascade Company | BCC |
+| 16 | 100 | $15.52 | [Chart](https://www.tradingview.com/chart/?symbol=SEM) | SELECT MEDICAL HOLDINGS CORP | SEM |
 | 2 | 99 | $48.63 | [Chart](https://www.tradingview.com/chart/?symbol=CCOI) | Cogent Communications Holdings, Inc. | CCOI |
 | 4 | 99 | $26.70 | [Chart](https://www.tradingview.com/chart/?symbol=WMG) | Warner Music Group Corp. Class A Common Stock | WMG |
 | 5 | 99 | $10.93 | [Chart](https://www.tradingview.com/chart/?symbol=MBC) | MasterBrand, Inc. | MBC |
-| 7 | 99 | $39.35 | [Chart](https://www.tradingview.com/chart/?symbol=WLY) | John Wiley & Sons, Inc. Class A | WLY |
-| 10 | 99 | $94.92 | [Chart](https://www.tradingview.com/chart/?symbol=ZBH) | Zimmer Biomet Holdings, Inc. | ZBH |
-| 11 | 99 | $64.65 | [Chart](https://www.tradingview.com/chart/?symbol=ZROZ) | PIMCO 25+ Year Zero Coupon U.S. Treasury Index Exchange-Traded Fund | ZROZ |
-| 12 | 99 | $26.24 | [Chart](https://www.tradingview.com/chart/?symbol=JANX) | Janux Therapeutics, Inc. Common Stock | JANX |
-| 13 | 99 | $10.70 | [Chart](https://www.tradingview.com/chart/?symbol=CARS) | Cars.com Inc. Common Stock | CARS |
-| 4 | 98 | $34.08 | [Chart](https://www.tradingview.com/chart/?symbol=SQM) | Sociedad Quimica y Minera de Chile SA | SQM |
-| 8 | 98 | $17.60 | [Chart](https://www.tradingview.com/chart/?symbol=DOC) | Healthpeak Properties, Inc. | DOC |
-| 8 | 98 | $102.39 | [Chart](https://www.tradingview.com/chart/?symbol=PDD) | PDD Holdings Inc. American Depositary Shares | PDD |
-| 11 | 98 | $18.61 | [Chart](https://www.tradingview.com/chart/?symbol=PLAB) | Photronics Inc | PLAB |
-| 13 | 98 | $42.74 | [Chart](https://www.tradingview.com/chart/?symbol=PRKS) | United Parks & Resorts Inc. | PRKS |
-| 19 | 98 | $10.88 | [Chart](https://www.tradingview.com/chart/?symbol=LBTYA) | Liberty Global Ltd. Class A Common Shares | LBTYA |
-| 8 | 97 | $52.84 | [Chart](https://www.tradingview.com/chart/?symbol=FBIN) | Fortune Brands Innovations, Inc. | FBIN |
+| 12 | 99 | $42.74 | [Chart](https://www.tradingview.com/chart/?symbol=PRKS) | United Parks & Resorts Inc. | PRKS |
+| 13 | 99 | $23.91 | [Chart](https://www.tradingview.com/chart/?symbol=IPG) | The Interpublic Group of Companies, Inc. | IPG |
+| 13 | 99 | $94.83 | [Chart](https://www.tradingview.com/chart/?symbol=ZBH) | Zimmer Biomet Holdings, Inc. | ZBH |
 | 9 | 97 | $34.45 | [Chart](https://www.tradingview.com/chart/?symbol=TWST) | Twist Bioscience Corporation Common Stock | TWST |
-| 11 | 97 | $15.18 | [Chart](https://www.tradingview.com/chart/?symbol=IGT) | International Game Technology PLC | IGT |
+| 9 | 97 | $24.13 | [Chart](https://www.tradingview.com/chart/?symbol=RYN) | Rayonier Inc. | RYN |
 | 10 | 96 | $449.85 | [Chart](https://www.tradingview.com/chart/?symbol=WSO) | Watsco, Inc. | WSO |
-| 10 | 96 | $24.13 | [Chart](https://www.tradingview.com/chart/?symbol=RYN) | Rayonier Inc. | RYN |
-| 10 | 95 | $99.36 | [Chart](https://www.tradingview.com/chart/?symbol=CHD) | Church & Dwight Co., Inc. | CHD |
+| 12 | 95 | $31.99 | [Chart](https://www.tradingview.com/chart/?symbol=XENE) | Xenon Pharmaceuticals Inc | XENE |
+| 13 | 95 | $99.31 | [Chart](https://www.tradingview.com/chart/?symbol=CHD) | Church & Dwight Co., Inc. | CHD |
+| 16 | 95 | $77.47 | [Chart](https://www.tradingview.com/chart/?symbol=EXPO) | Exponent Inc | EXPO |
 | 17 | 95 | $10.42 | [Chart](https://www.tradingview.com/chart/?symbol=MYI) | BLACKROCK MUNIYIELD QUALITY FUND III, INC. | MYI |
 | 10 | 94 | $12.73 | [Chart](https://www.tradingview.com/chart/?symbol=PMT) | PennyMac Mortgage Investment Trust | PMT |
-| 11 | 94 | $14.75 | [Chart](https://www.tradingview.com/chart/?symbol=HR) | Healthcare Realty Trust Incorporated | HR |
+| 13 | 94 | $14.87 | [Chart](https://www.tradingview.com/chart/?symbol=HR) | Healthcare Realty Trust Incorporated | HR |
 | 14 | 94 | $13.73 | [Chart](https://www.tradingview.com/chart/?symbol=BSM) | Black Stone Minerals, L.P. | BSM |
-| 17 | 94 | $77.47 | [Chart](https://www.tradingview.com/chart/?symbol=EXPO) | Exponent Inc | EXPO |
+| 14 | 93 | $454.90 | [Chart](https://www.tradingview.com/chart/?symbol=VRTX) | Vertex Pharmaceuticals Inc | VRTX |
+| 17 | 93 | $11.85 | [Chart](https://www.tradingview.com/chart/?symbol=NVG) | Nuveen AMT-Free Municipal Credit Income Fund | NVG |
 | 20 | 93 | $15.33 | [Chart](https://www.tradingview.com/chart/?symbol=VRE) | Veris Residential, Inc. | VRE |
+| 21 | 93 | $55.55 | [Chart](https://www.tradingview.com/chart/?symbol=CNC) | Centene Corporation | CNC |
 | 8 | 92 | $61.61 | [Chart](https://www.tradingview.com/chart/?symbol=STC) | Stewart Information Services Corporation | STC |
-| 18 | 92 | $11.85 | [Chart](https://www.tradingview.com/chart/?symbol=NVG) | Nuveen AMT-Free Municipal Credit Income Fund | NVG |
+| 13 | 92 | $30.82 | [Chart](https://www.tradingview.com/chart/?symbol=AXTA) | Axalta Coating Systems Ltd. | AXTA |
 | 20 | 92 | $100.25 | [Chart](https://www.tradingview.com/chart/?symbol=UFPI) | UFP Industries, Inc. Common Stock | UFPI |
+| 16 | 91 | $63.13 | [Chart](https://www.tradingview.com/chart/?symbol=ELS) | Equity Lifestyle Properties, Inc. | ELS |
 | 18 | 91 | $26.53 | [Chart](https://www.tradingview.com/chart/?symbol=ASTH) | Astrana Health Inc. Common Stock | ASTH |
-| 20 | 91 | $55.51 | [Chart](https://www.tradingview.com/chart/?symbol=CNC) | Centene Corporation | CNC |
-| 17 | 90 | $63.13 | [Chart](https://www.tradingview.com/chart/?symbol=ELS) | Equity Lifestyle Properties, Inc. | ELS |
 | 17 | 90 | $41.45 | [Chart](https://www.tradingview.com/chart/?symbol=POR) | Portland General Electric Company | POR |
 | 13 | 89 | $295.69 | [Chart](https://www.tradingview.com/chart/?symbol=MOH) | Molina Healthcare, Inc. | MOH |
 | 15 | 89 | $18.76 | [Chart](https://www.tradingview.com/chart/?symbol=EGBN) | Eagle Bancorp Inc | EGBN |
-| 16 | 89 | $451.52 | [Chart](https://www.tradingview.com/chart/?symbol=VRTX) | Vertex Pharmaceuticals Inc | VRTX |
 | 21 | 89 | $15.70 | [Chart](https://www.tradingview.com/chart/?symbol=BBN) | BlackRock Taxable Municipal Bond Trust | BBN |
+| 14 | 88 | $10.27 | [Chart](https://www.tradingview.com/chart/?symbol=NMZ) | Nuveen Municipal High Income Opportunity Fund | NMZ |
+| 19 | 88 | $235.54 | [Chart](https://www.tradingview.com/chart/?symbol=HUM) | Humana Inc. | HUM |
 | 21 | 88 | $13.72 | [Chart](https://www.tradingview.com/chart/?symbol=DOLE) | Dole plc | DOLE |
-| 14 | 87 | $31.06 | [Chart](https://www.tradingview.com/chart/?symbol=AXTA) | Axalta Coating Systems Ltd. | AXTA |
+| 22 | 88 | $85.75 | [Chart](https://www.tradingview.com/chart/?symbol=TLT) | iShares 20+ Year Treasury Bond ETF | TLT |
 | 14 | 87 | $15.87 | [Chart](https://www.tradingview.com/chart/?symbol=QNST) | QuinStreet, Inc. | QNST |
-| 15 | 87 | $202.67 | [Chart](https://www.tradingview.com/chart/?symbol=AAPL) | Apple Inc. | AAPL |
-| 15 | 87 | $10.27 | [Chart](https://www.tradingview.com/chart/?symbol=NMZ) | Nuveen Municipal High Income Opportunity Fund | NMZ |
+| 17 | 87 | $202.76 | [Chart](https://www.tradingview.com/chart/?symbol=AAPL) | Apple Inc. | AAPL |
 | 19 | 87 | $13.42 | [Chart](https://www.tradingview.com/chart/?symbol=ARDT) | Ardent Health, Inc. | ARDT |
-| 15 | 86 | $182.80 | [Chart](https://www.tradingview.com/chart/?symbol=DKS) | Dick's Sporting Goods, Inc. | DKS |
-| 16 | 86 | $76.76 | [Chart](https://www.tradingview.com/chart/?symbol=PFG) | Principal Financial Group, Inc. | PFG |
+| 23 | 87 | $54.62 | [Chart](https://www.tradingview.com/chart/?symbol=VGLT) | Vanguard Long-Term Treasury ETF | VGLT |
+| 16 | 86 | $17.77 | [Chart](https://www.tradingview.com/chart/?symbol=ZTO) | ZTO Express (Cayman) Inc. American Depositary Shares, each representing one Class A ordinary share | ZTO |
+| 17 | 86 | $76.63 | [Chart](https://www.tradingview.com/chart/?symbol=PFG) | Principal Financial Group, Inc. | PFG |
 | 31 | 86 | $49.65 | [Chart](https://www.tradingview.com/chart/?symbol=MTBA) | Simplify MBS ETF | MTBA |
-| 21 | 85 | $11.21 | [Chart](https://www.tradingview.com/chart/?symbol=NAD) | Nuveen Quality Municipal Income Fund | NAD |
 | 22 | 85 | $57.89 | [Chart](https://www.tradingview.com/chart/?symbol=AMWD) | American Woodmark Corp | AMWD |
 | 30 | 85 | $136.79 | [Chart](https://www.tradingview.com/chart/?symbol=ICUI) | ICU Medical Inc | ICUI |
-| 21 | 84 | $85.88 | [Chart](https://www.tradingview.com/chart/?symbol=TLT) | iShares 20+ Year Treasury Bond ETF | TLT |
-| 22 | 83 | $54.65 | [Chart](https://www.tradingview.com/chart/?symbol=VGLT) | Vanguard Long-Term Treasury ETF | VGLT |
-| 18 | 82 | $162.84 | [Chart](https://www.tradingview.com/chart/?symbol=PG) | Procter & Gamble Company | PG |
+| 21 | 84 | $186.04 | [Chart](https://www.tradingview.com/chart/?symbol=DKS) | Dick's Sporting Goods, Inc. | DKS |
+| 28 | 84 | $223.43 | [Chart](https://www.tradingview.com/chart/?symbol=LOW) | Lowe's Companies Inc. | LOW |
+| 21 | 82 | $133.22 | [Chart](https://www.tradingview.com/chart/?symbol=KMB) | Kimberly-Clark Corp. | KMB |
+| 22 | 82 | $26.32 | [Chart](https://www.tradingview.com/chart/?symbol=DOG) | ProShares Short Dow30 | DOG |
 | 27 | 82 | $20.98 | [Chart](https://www.tradingview.com/chart/?symbol=LGOV) | First Trust Long Duration Opportunities ETF | LGOV |
-| 21 | 80 | $139.11 | [Chart](https://www.tradingview.com/chart/?symbol=DVA) | DaVita Inc. | DVA |
+| 20 | 81 | $139.11 | [Chart](https://www.tradingview.com/chart/?symbol=DVA) | DaVita Inc. | DVA |
+| 20 | 80 | $78.15 | [Chart](https://www.tradingview.com/chart/?symbol=CAVA) | CAVA Group, Inc. | CAVA |
+| 26 | 80 | $449.82 | [Chart](https://www.tradingview.com/chart/?symbol=LMT) | Lockheed Martin Corp. | LMT |
 | 21 | 79 | $38.44 | [Chart](https://www.tradingview.com/chart/?symbol=BWIN) | The Baldwin Insurance Group, Inc. Class A Common Stock | BWIN |
-| 23 | 79 | $26.34 | [Chart](https://www.tradingview.com/chart/?symbol=DOG) | ProShares Short Dow30 | DOG |
+| 24 | 79 | $162.58 | [Chart](https://www.tradingview.com/chart/?symbol=PG) | Procter & Gamble Company | PG |
 | 28 | 79 | $85.40 | [Chart](https://www.tradingview.com/chart/?symbol=BCO) | The Brink's Company | BCO |
-| 31 | 77 | $26.08 | [Chart](https://www.tradingview.com/chart/?symbol=BAB) | Invesco Taxable Municipal Bond ETF | BAB |
-| 35 | 75 | $89.77 | [Chart](https://www.tradingview.com/chart/?symbol=ACGL) | Arch Capital Group Ltd | ACGL |
+| 32 | 76 | $26.18 | [Chart](https://www.tradingview.com/chart/?symbol=BAB) | Invesco Taxable Municipal Bond ETF | BAB |
 | 32 | 74 | $21.16 | [Chart](https://www.tradingview.com/chart/?symbol=FLCB) | Franklin U.S. Core Bond ETF | FLCB |
-| 35 | 73 | $47.14 | [Chart](https://www.tradingview.com/chart/?symbol=CWT) | California Water Service | CWT |
-| 32 | 70 | $45.53 | [Chart](https://www.tradingview.com/chart/?symbol=VMBS) | Vanguard Mortgage-Backed Securities ETF | VMBS |
-| 34 | 69 | $97.62 | [Chart](https://www.tradingview.com/chart/?symbol=AGG) | iShares Core U.S. Aggregate Bond ETF | AGG |
-| 34 | 68 | $33.62 | [Chart](https://www.tradingview.com/chart/?symbol=INVH) | Invitation Homes Inc. Common Stock | INVH |
-| 37 | 65 | $110.17 | [Chart](https://www.tradingview.com/chart/?symbol=SHV) | iShares Short Treasury Bond ETF | SHV |
-| 37 | 63 | $100.28 | [Chart](https://www.tradingview.com/chart/?symbol=MINT) | PIMCO Enhanced Short Maturity Active Exchange-Traded Fund | MINT |
+| 34 | 74 | $47.14 | [Chart](https://www.tradingview.com/chart/?symbol=CWT) | California Water Service | CWT |
+| 33 | 72 | $45.59 | [Chart](https://www.tradingview.com/chart/?symbol=VMBS) | Vanguard Mortgage-Backed Securities ETF | VMBS |
+| 34 | 72 | $97.72 | [Chart](https://www.tradingview.com/chart/?symbol=AGG) | iShares Core U.S. Aggregate Bond ETF | AGG |
+| 33 | 69 | $92.37 | [Chart](https://www.tradingview.com/chart/?symbol=MBB) | iShares MBS ETF | MBB |
+| 34 | 69 | $93.95 | [Chart](https://www.tradingview.com/chart/?symbol=IEF) | iShares 7-10 Year Treasury Bond ETF | IEF |
+| 34 | 69 | $22.88 | [Chart](https://www.tradingview.com/chart/?symbol=SCHZ) | Schwab US Aggregate Bond ETF | SCHZ |
+| 34 | 69 | $25.20 | [Chart](https://www.tradingview.com/chart/?symbol=SPAB) | SPDR Portfolio Aggregate Bond ETF | SPAB |
+| 34 | 67 | $32.65 | [Chart](https://www.tradingview.com/chart/?symbol=KDP) | Keurig Dr Pepper Inc. | KDP |
+| 37 | 67 | $110.18 | [Chart](https://www.tradingview.com/chart/?symbol=SHV) | iShares Short Treasury Bond ETF | SHV |
+| 36 | 64 | $100.28 | [Chart](https://www.tradingview.com/chart/?symbol=MINT) | PIMCO Enhanced Short Maturity Active Exchange-Traded Fund | MINT |
+| 37 | 63 | $58.92 | [Chart](https://www.tradingview.com/chart/?symbol=VGIT) | Vanguard Intermediate-Term Treasury ETF | VGIT |
+| 37 | 63 | $91.53 | [Chart](https://www.tradingview.com/chart/?symbol=BIL) | SPDR Bloomberg 1-3 Month T-Bill ETF | BIL |
 
 ## **Methodology**
 
